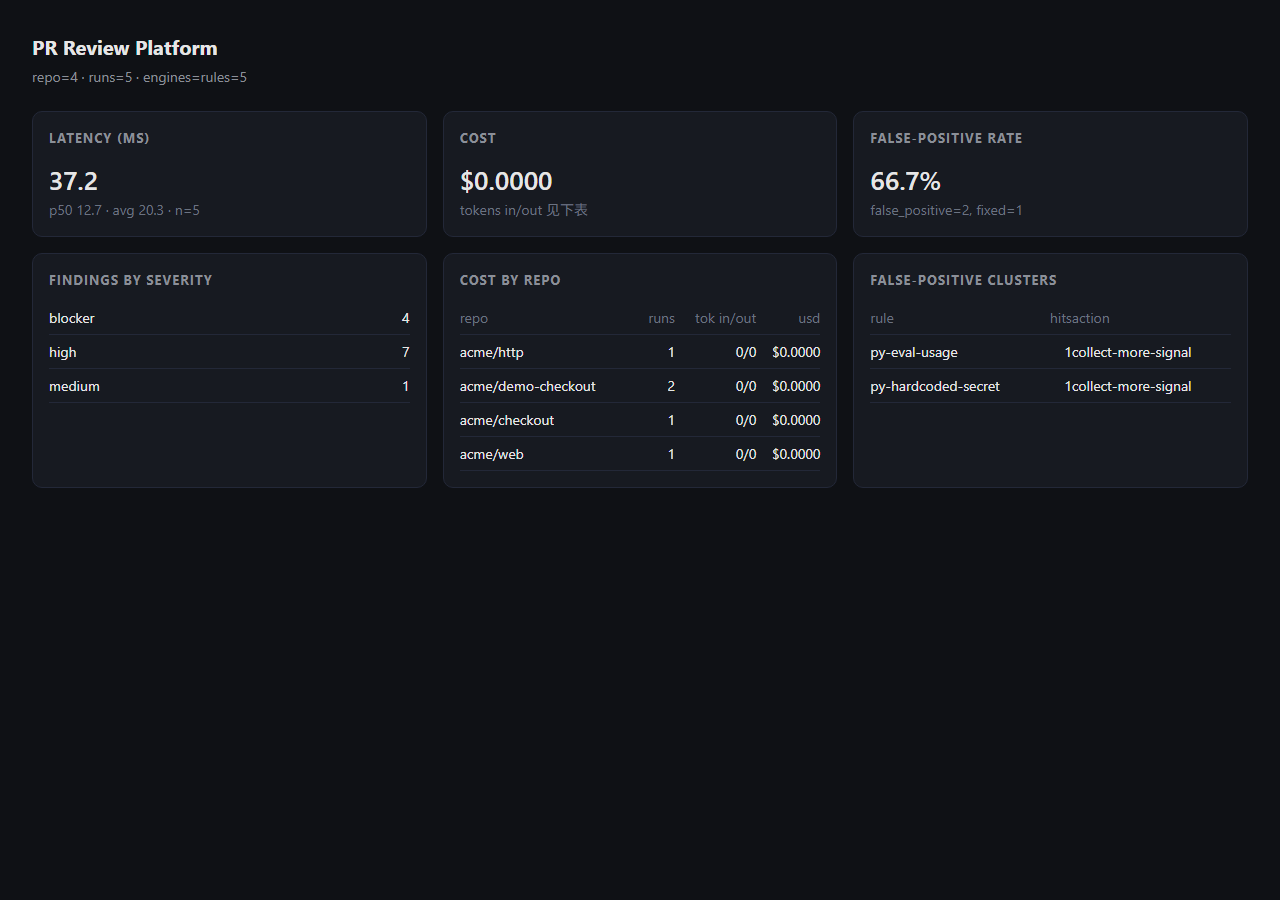
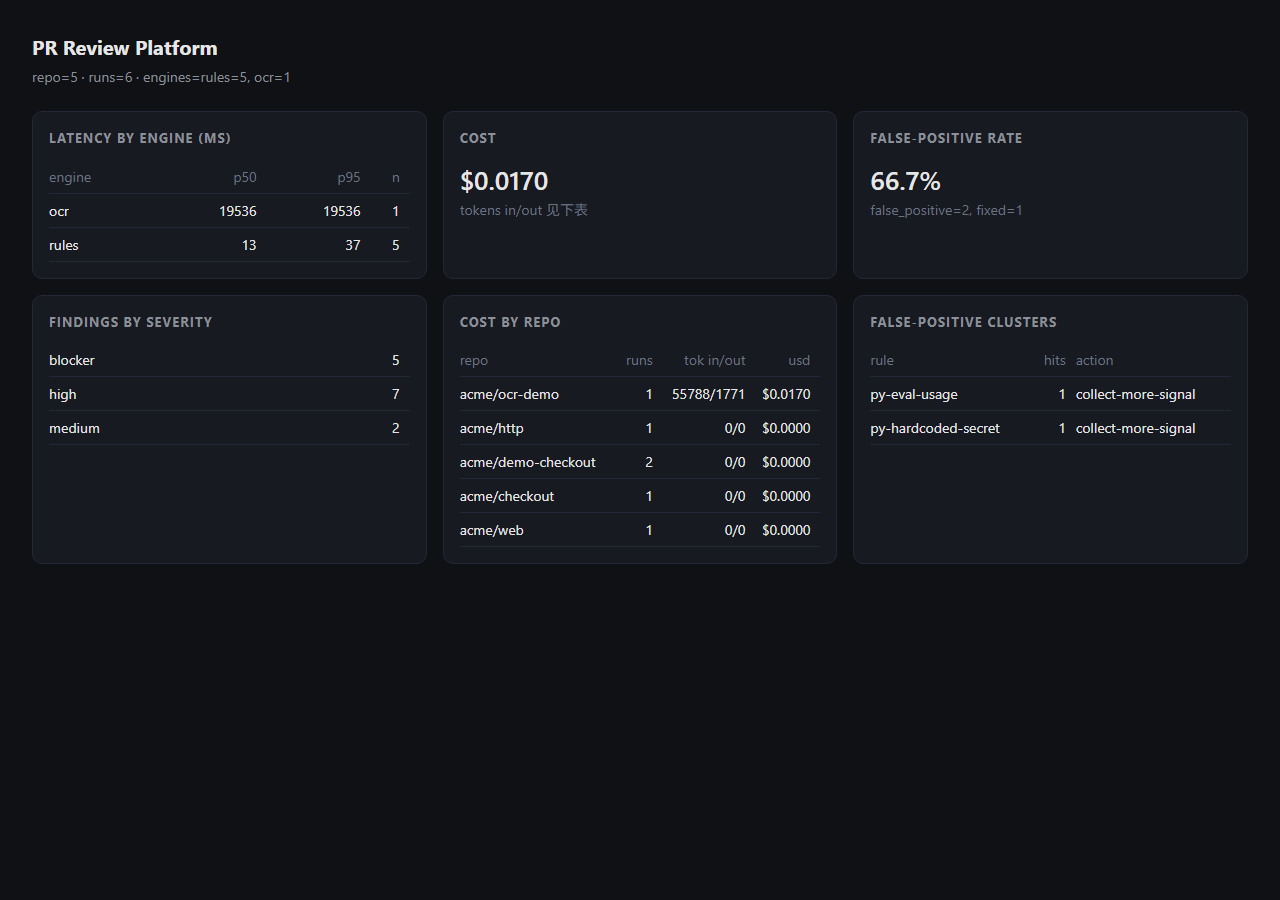
fix(analytics): report latency per engine, not blended
A 37ms deterministic run and a 19s model run are different SLOs; the blended
P95 (19.5s) described neither. Dashboard now shows p50/p95/count per engine.

diff --git a/core/analytics.py b/core/analytics.py
@@ -114,22 +114,32 @@ async def run_stats(session: AsyncSession) -> dict:
         await session.execute(select(Run.status, func.count()).group_by(Run.status))
     ).all():
         by_status[str(status)] = int(count)
-    latencies = [
-        float(v)
-        for v in (
-            await session.execute(select(Run.latency_ms).where(Run.status == "completed"))
-        ).scalars()
-        if v
-    ]
-    engines: dict[str, int] = {}
-    for stats in (await session.execute(select(Run.stats))).scalars():
-        if isinstance(stats, dict) and stats.get("engine"):
-            engines[stats["engine"]] = engines.get(stats["engine"], 0) + 1
+
+    # Latency must be reported per engine: a 37ms deterministic run and a 19s
+    # model run are different SLOs, and averaging them produces a number that
+    # describes nothing.
+    rows = (
+        await session.execute(select(Run.latency_ms, Run.stats).where(Run.status == "completed"))
+    ).all()
+    all_latencies: list[float] = []
+    by_engine: dict[str, list[float]] = {}
+    for latency, stats in rows:
+        if not latency:
+            continue
+        engine = (stats or {}).get("engine") or "unknown"
+        all_latencies.append(float(latency))
+        by_engine.setdefault(str(engine), []).append(float(latency))
+
     return {
         "total": int(total),
         "by_status": by_status,
-        "engines": engines,
-        "latency_ms": metrics_mod.summarize(latencies),
+        "engines": {engine: len(values) for engine, values in by_engine.items()},
+        "latency_ms": {
+            "overall": metrics_mod.summarize(all_latencies),
+            "by_engine": {
+                engine: metrics_mod.summarize(values) for engine, values in sorted(by_engine.items())
+            },
+        },
     }
 
 

diff --git a/apps/api/main.py b/apps/api/main.py
@@ -366,6 +366,11 @@ def _render_dashboard(data: dict) -> str:
     ) or "<tr><td colspan=3 class='muted'>no false positives recorded</td></tr>"
 
     latency = data["runs"]["latency_ms"]
+    latency_rows = "".join(
+        f"<tr><td>{esc(engine)}</td><td class='num'>{v['p50']:.0f}</td>"
+        f"<td class='num'>{v['p95']:.0f}</td><td class='num'>{v['count']}</td></tr>"
+        for engine, v in latency["by_engine"].items()
+    ) or "<tr><td colspan=4 class='muted'>no completed runs</td></tr>"
     engines = ", ".join(f"{esc(k)}={v}" for k, v in data["runs"]["engines"].items()) or "none"
 
     return f"""<!doctype html>
@@ -384,8 +389,9 @@ def _render_dashboard(data: dict) -> str:
 <h1>PR Review Platform</h1>
 <div class="sub">repo={data['repos']} · runs={data['runs']['total']} · engines={engines}</div>
 <div class="grid">
-  <div class="card"><h2>Latency (ms)</h2><div class="big">{latency['p95']}</div>
-    <div class="muted">p50 {latency['p50']} · avg {latency['avg']} · n={latency['count']}</div></div>
+  <div class="card"><h2>Latency by engine (ms)</h2><table>
+    <tr><td class="muted">engine</td><td class="muted num">p50</td><td class="muted num">p95</td><td class="muted num">n</td></tr>
+    {latency_rows}</table></div>
   <div class="card"><h2>Cost</h2><div class="big">${sum(r['cost_usd'] for r in data['cost_by_repo']):.4f}</div>
     <div class="muted">tokens in/out 见下表</div></div>
   <div class="card"><h2>False-positive rate</h2><div class="big">{feedback['false_positive_rate']:.1%}</div>

diff --git a/scripts/e2e_ocr.py b/scripts/e2e_ocr.py
@@ -26,11 +26,14 @@ from dotenv import load_dotenv  # noqa: E402
 
 load_dotenv(".env")
 
-_tmp_db = workdir("e2e-ocr-") / "e2e.db"
-os.environ["DATABASE_URL"] = f"sqlite+aiosqlite:///{_tmp_db.as_posix()}"
+# --live keeps the configured Postgres so the dashboard shows a real model run.
+LIVE = "--live" in sys.argv
+if not LIVE:
+    _tmp_db = workdir("e2e-ocr-") / "e2e.db"
+    os.environ["DATABASE_URL"] = f"sqlite+aiosqlite:///{_tmp_db.as_posix()}"
 os.environ["QUEUE_BACKEND"] = "db"
 os.environ["OCR_MODE"] = "cli"
-os.environ["APP_ENV"] = "test"  # NullPool, no dev warnings noise
+os.environ["APP_ENV"] = "test"  # NullPool, quieter logs
 
 from core.db import SessionLocal, engine, init_db  # noqa: E402
 from core.models import Repo, Run  # noqa: E402
@@ -46,6 +49,7 @@ async def main() -> int:
     parser.add_argument("--repo", default="tools/ocrdemo")
     parser.add_argument("--from", dest="base", default="HEAD~1")
     parser.add_argument("--to", dest="head", default="HEAD")
+    parser.add_argument("--live", action="store_true", help="use the configured Postgres instead of a temp SQLite")
     args = parser.parse_args()
 
     demo = (ROOT / args.repo).resolve()
